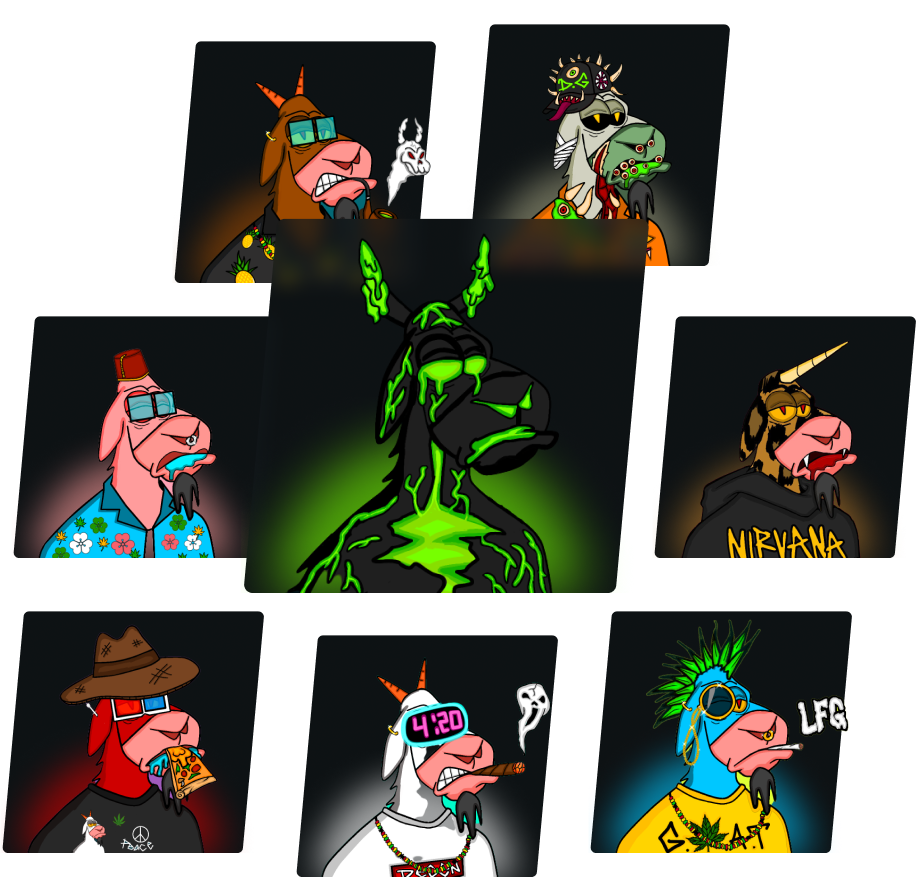
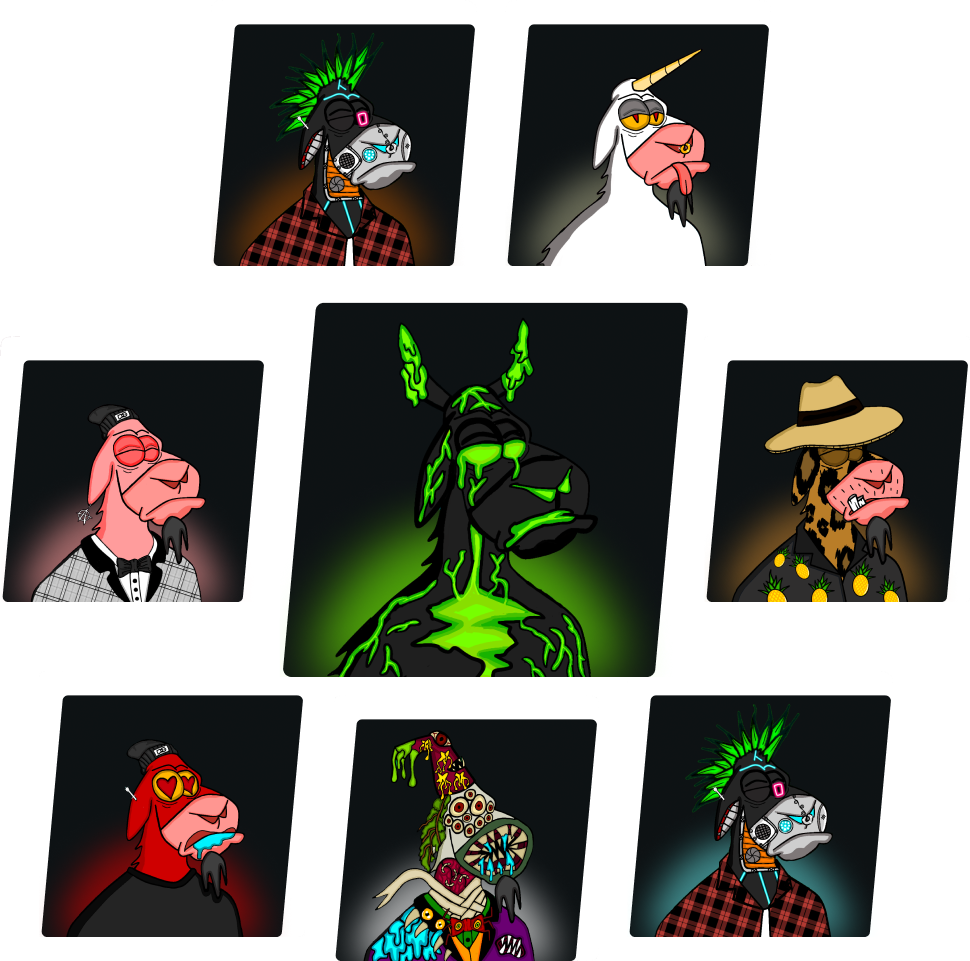
:bookmark: v1

diff --git a/src/components/home/Roadmap.js b/src/components/home/Roadmap.js
@@ -44,7 +44,7 @@ function Roadmap() {
                     <div className="bg-semi-black shadow-2xl shadow-gray-400/10 rounded-xl  w-full md:w-5/12 p-6 md:px-8 md:py-6 ml-8 md:ml-0">
                         <h3 className="font-semibold text-base md:text-lg">Shuffle Schedule</h3>
                         <p className="mt-3 leading-relaxed tracking-wide text-gray-500 text-sm md:text-base">
-                            First minting price is 25A and keep increasing every multiple of 100. We will announce the shuffle schedule, don't miss it!
+                            First minting price is 25A and keep increasing. We will announce the shuffle schedule, don't miss it! 50A is the maximum mint price.
                         </p>
                     </div>
                 </div>
@@ -57,7 +57,7 @@ function Roadmap() {
                         <h3 className="font-semibold text-base md:text-lg">Degen Goat Bank opening</h3>
                         <p className="mt-3 leading-relaxed tracking-wide text-gray-500 text-sm md:text-base">
                             20% of TOTAL SALES and 50% of royalty will go to Degen Goat Bank. It will be used wisely according to the wishes of the community, such as supporting other projects, sweep
-                            the floor, allocation for investing on hidden gem, etc.
+                            the floor, allocation for investing on hidden gem, shitcoin party, etc.
                         </p>
                     </div>
                 </div>
@@ -77,11 +77,8 @@ function Roadmap() {
                         <div className="bg-semi-black w-8 h-8 rounded-full"></div>
                     </div>
                     <div className="bg-semi-black shadow-2xl shadow-gray-400/10 rounded-xl  w-full md:w-5/12 p-6 md:px-8 md:py-6 ml-8 md:ml-0">
-                        <h3 className="font-semibold text-base md:text-lg">420 Auction</h3>
-                        <p className="mt-3 leading-relaxed tracking-wide text-gray-500 text-sm md:text-base">
-                            This is one of the Mutant, Lava Goat! The other Lava and mutant Goat is on the shuffle. Unlike other project, we give the opportunity to the community to get the rarest
-                            Goat on shuffle
-                        </p>
+                        <h3 className="font-semibold text-base md:text-lg">Algo NFT competition</h3>
+                        <p className="mt-3 leading-relaxed tracking-wide text-gray-500 text-sm md:text-base">We will announce about the competition, stay tune!</p>
                     </div>
                 </div>
                 <div className="mb-8 flex justify-between items-center w-full md:flex-row-reverse">
@@ -92,7 +89,7 @@ function Roadmap() {
                     <div className="bg-semi-black shadow-2xl shadow-gray-400/10 rounded-xl  w-full md:w-5/12 p-6 md:px-8 md:py-6 ml-8 md:ml-0">
                         <h3 className="font-semibold text-base md:text-lg">Private VR art Gallery</h3>
                         <p className="mt-3 leading-relaxed tracking-wide text-gray-500 text-sm md:text-base">
-                            We will create a private VR art gallery for Degen Goat (Would be on spatial or hubs mozilla) Degen Goat holders will have full access!
+                            We will create a private VR art gallery for Degen Goat (Would be on spatial, hubs mozilla or other platform) Degen Goat holders will have full access!
                         </p>
                     </div>
                 </div>
@@ -114,10 +111,11 @@ function Roadmap() {
                     <div className="bg-semi-black shadow-2xl shadow-gray-400/10 rounded-xl  w-full md:w-5/12 p-6 md:px-8 md:py-6 ml-8 md:ml-0">
                         <h3 className="font-semibold text-base md:text-lg">Collab with holders</h3>
                         <p className="mt-3 leading-relaxed tracking-wide text-gray-500 text-sm md:text-base">
-                            This will be the center of the collab edition between us as Degen Goat holders. You are the one who decides whether you want to sell or auction. As creator of Derivative,
-                            90% of the sales will be transferred directly to your wallet, 10% will go to Degen Goat Bank. There is no rarity on this edition.
+                            This will be the center of the collab edition between us as Degen Goat holders. As creator of Derivative, 90% of the sales will be transferred directly to your wallet, 10%
+                            will go to Degen Goat Bank. There is no rarity on this edition.
                             <br />
-                            You can also create and sell your own derivative art without having to rely on us, The rest of the community will help to shill your artwork!
+                            <br />
+                            You can also create and sell your own derivative art, the rest of the community will help to shill your artwork!
                         </p>
                     </div>
                 </div>

diff --git a/src/components/home/Index.js b/src/components/home/Index.js
@@ -1,17 +1,45 @@
 import React from 'react'
 import Hero from '../../assets/images/Hero.png'
+import { HeroImages } from '../../utils'
+
+const images = [
+    { src: HeroImages.Hero1, alt: 'Hero1' },
+    { src: HeroImages.Hero2, alt: 'Hero2' },
+    { src: HeroImages.Hero3, alt: 'Hero3' },
+    { src: HeroImages.Hero4, alt: 'Hero4' },
+    { src: HeroImages.Hero5, alt: 'Hero5' },
+    { src: HeroImages.Hero6, alt: 'Hero6' },
+    { src: HeroImages.Hero7, alt: 'Hero7' },
+]
 
 export default function Index() {
     return (
-        <div className="px-6 md:px-24 md:flex md:items-center md:gap-24">
-            <div className="w-full md:w-4/6">
-                <h1 className="text-4xl md:text-6xl font-bold leading-tight">
-                    Welcome To <br /> <span className="text-primary">Degen Goat</span>
-                </h1>
-                <p className="mt-3 text-lg md:text-2xl text-gray-400">The story about a degen scientist who conducted a crazy experiment on 1000 goats. </p>
+        <div>
+            <div className="px-6 md:px-24 md:flex md:items-center md:gap-24">
+                <div className="w-full md:w-4/6">
+                    <h1 className="text-4xl md:text-6xl font-bold leading-tight">
+                        Welcome To <br /> <span className="text-primary">Degen Goat</span>
+                    </h1>
+                </div>
+                <div className="w-full md:w-3/5 mt-6 md:mt-0">
+                    <img className="hidden md:block" src={Hero} alt="" />
+                </div>
             </div>
-            <div className="w-full md:w-3/5 mt-6 md:mt-0">
-                <img className="hidden md:block" src={Hero} alt="" />
+            <div className="block md:hidden">
+                <div class="w-full overflow-hidden relative">
+                    <div class="w-[3500px] flex animate-infinite-carousel">
+                        {images.map((image) => (
+                            <div class="w-[250px]">
+                                <img src={image.src} alt={image.alt} />
+                            </div>
+                        ))}
+                        {images.map((image) => (
+                            <div class="w-[250px] h-[100px]">
+                                <img src={image.src} alt={image.alt} />
+                            </div>
+                        ))}
+                    </div>
+                </div>
             </div>
         </div>
     )

diff --git a/src/components/home/About.js b/src/components/home/About.js
@@ -1,27 +1,20 @@
 import React from 'react'
+import AboutImage from '../../assets/images/About.png'
 
 export default function About() {
     return (
         <div className="px-6 md:px-24">
-            <div className="md:grid md:grid-cols-6 items-center">
-                <div className="md:col-span-3">
-                    <h2 className="text-3xl md:text-5xl font-semibold">
-                        What Is <br /> Degen Goat?
-                    </h2>
-                    <a
-                        href="#roadmap"
-                        className="mt-4 md:mt-8 px-6 md:px-12 py-3 bg-primary rounded-lg font-bold text-lg md:text-xl text-semi-black shadow-[5px_5px_0_0_rgba(0,113,56,1)] hover:bg-green-400 hover:shadow-none transition-all duration-300 ease-in-out inline-block"
-                    >
-                        Check Our Roadmap
-                    </a>
+            <div className="md:grid md:grid-cols-7 items-center">
+                <div className="md:col-span-2">
+                    <img src={AboutImage} alt="AboutImage" />
                 </div>
-                <div className="md:col-span-3 mt-4 md:mt-0">
+                <div className="md:col-span-4 md:col-start-4 mt-4 md:mt-0">
                     <p className="text-base md:text-lg text-gray-300 text-justify leading-relaxed">
                         Welcome to Degen Goat, the <span className="bg-primary px-2 py1 rounded-lg text-semi-black font-semibold mx-1">G.O.A.T</span> on Algorand blockchain! Degen Goat is a collection
-                        of 1000 generated hand-drawn NFT with 8 different traits categories.
+                        of 1000 generated hand-drawn NFT with 9 different traits categories.
                         <br /> <br />
-                        Our main focus is gathering Algofam and talented artist to become a strongest community on Algorand. We're also here to support the other NFT projects on Algorand by collecting
-                        them as a form of support and put them in the Degen Goat Bank.
+                        Our main focus is gathering Algofam and talented artist to become a strongest community on Algorand in humble way. We're also here to support the other NFT projects on Algorand
+                        by collecting them as a form of support and put them in the Degen Goat Bank.
                     </p>
                 </div>
             </div>

diff --git a/src/components/home/Benefit.js b/src/components/home/Benefit.js
@@ -11,12 +11,13 @@ export default function Benefit() {
                 <div className="md:col-span-5 md:col-start-4 mt-4 md:mt-0">
                     <h2 className="text-3xl md:text-5xl font-semibold">Benefit for the holders</h2>
                     <p className="mt-4 text-base md:text-lg text-gray-300 text-justify leading-relaxed">
-                        By owning Degen Goat, you'll become a part of Respected Alpha on Algorand, also you will get full access to make Degen Goat derivative art. There will be a Degen Goat
-                        Derivative and Collab edition, where all derivative and collab between us become one. 90% of total sales will be transfered to the creator, 10% will go to the Degen Goat Bank.
-                        Degen Goat Bank will be use wisely according to the wishes of all collectors.
+                        By owning Degen Goat, you will get full access to make Degen Goat derivative art. There will be Degen Goat Derivative and Collab edition, where all derivative and collab
+                        between us become one. 90% of total sales will be transfered to the creator, 10% will go to the Degen Goat Bank. Degen Goat Bank will be use wisely according to the wishes of
+                        all collectors.
                         <br />
                         <br />
-                        We also willing to help you as a holder to start your own nft project. If you already have a raw materials, we are happy to help to generate your art and batch minting.
+                        We also willing to help you as a holder to start your own nft project on Algorand. If you already have a raw materials, we are happy to help you to generate your art and batch
+                        minting.
                     </p>
                 </div>
             </div>

diff --git a/tailwind.config.js b/tailwind.config.js
@@ -7,9 +7,18 @@ module.exports = {
                     '0%, 100%': { transform: 'rotate(-3deg)' },
                     '50%': { transform: 'rotate(3deg)' },
                 },
+                'infinite-carousel': {
+                    '0%': {
+                        transform: 'translateX(0%)',
+                    },
+                    '100%': {
+                        transform: 'translateX(calc(-250px * 7))',
+                    },
+                },
             },
             animation: {
                 wiggle: 'wiggle 0.5s ease-in-out infinite',
+                'infinite-carousel': 'infinite-carousel 38s infinite linear',
             },
             colors: {
                 primary: '#01E472',

diff --git a/src/utils/ImportImages/ImportImages.js b/src/utils/ImportImages/ImportImages.js
@@ -6,8 +6,6 @@ export const HeroImages = {
     Hero5: require('../../assets/images/hero/5.png'),
     Hero6: require('../../assets/images/hero/6.png'),
     Hero7: require('../../assets/images/hero/7.png'),
-    Hero8: require('../../assets/images/hero/8.png'),
-    Hero9: require('../../assets/images/hero/9.png'),
 }
 
 export const TeamImages = {
